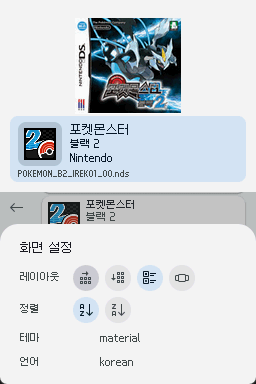
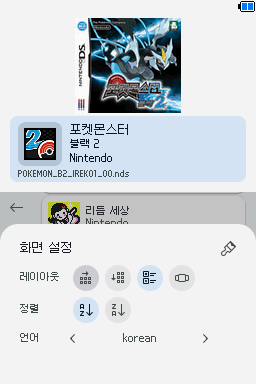
Update the settings screenshot and theme selector note in Usage.md
The display settings now show upstream's theme button and the language
row instead of the old theme row.

diff --git a/docs/Usage.md b/docs/Usage.md
@@ -24,7 +24,7 @@ Pico Launcher를 실행하면 다음과 같은 화면이 표시됩니다.
 
 ![설정 메뉴](./images/SettingsPage.png)
 
-레이아웃, 정렬, 언어를 설정할 수 있습니다. ([settings.json 파일](#설정)을 수정해도 변경할 수 있으며, 테마는 `theme` 항목으로 지정합니다.) 각 레이아웃의 모습은 다음과 같습니다.
+레이아웃, 정렬, 언어를 설정할 수 있으며, 오른쪽 위의 붓 아이콘을 누르면 테마 선택 화면이 열립니다. ([settings.json 파일](#설정)을 수정해도 변경할 수 있습니다.) 각 레이아웃의 모습은 다음과 같습니다.
 
 <table>
     <tr>
